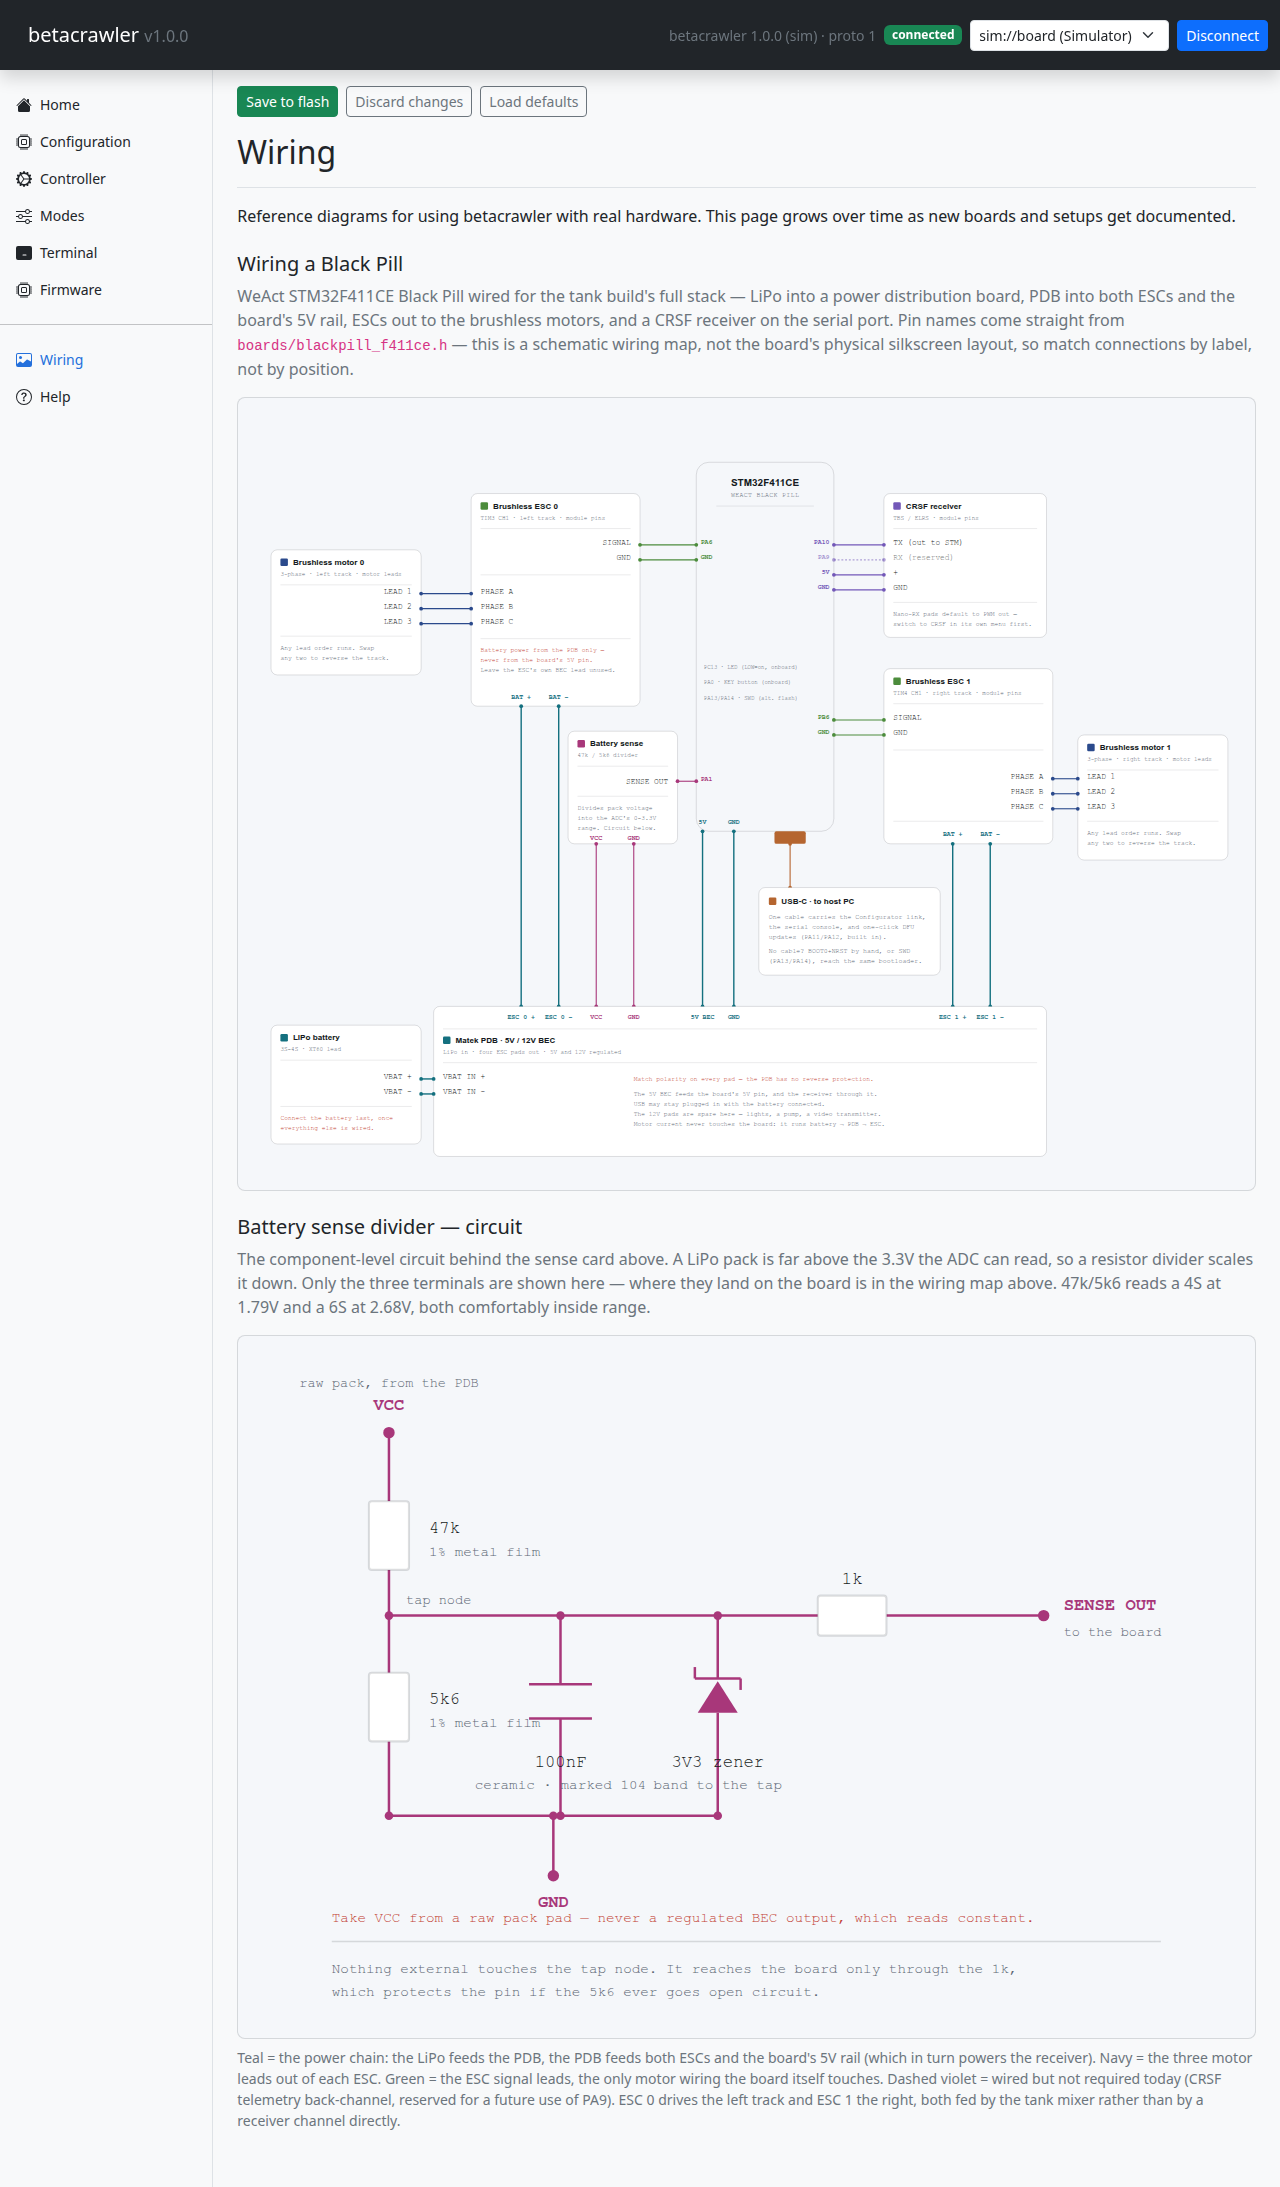
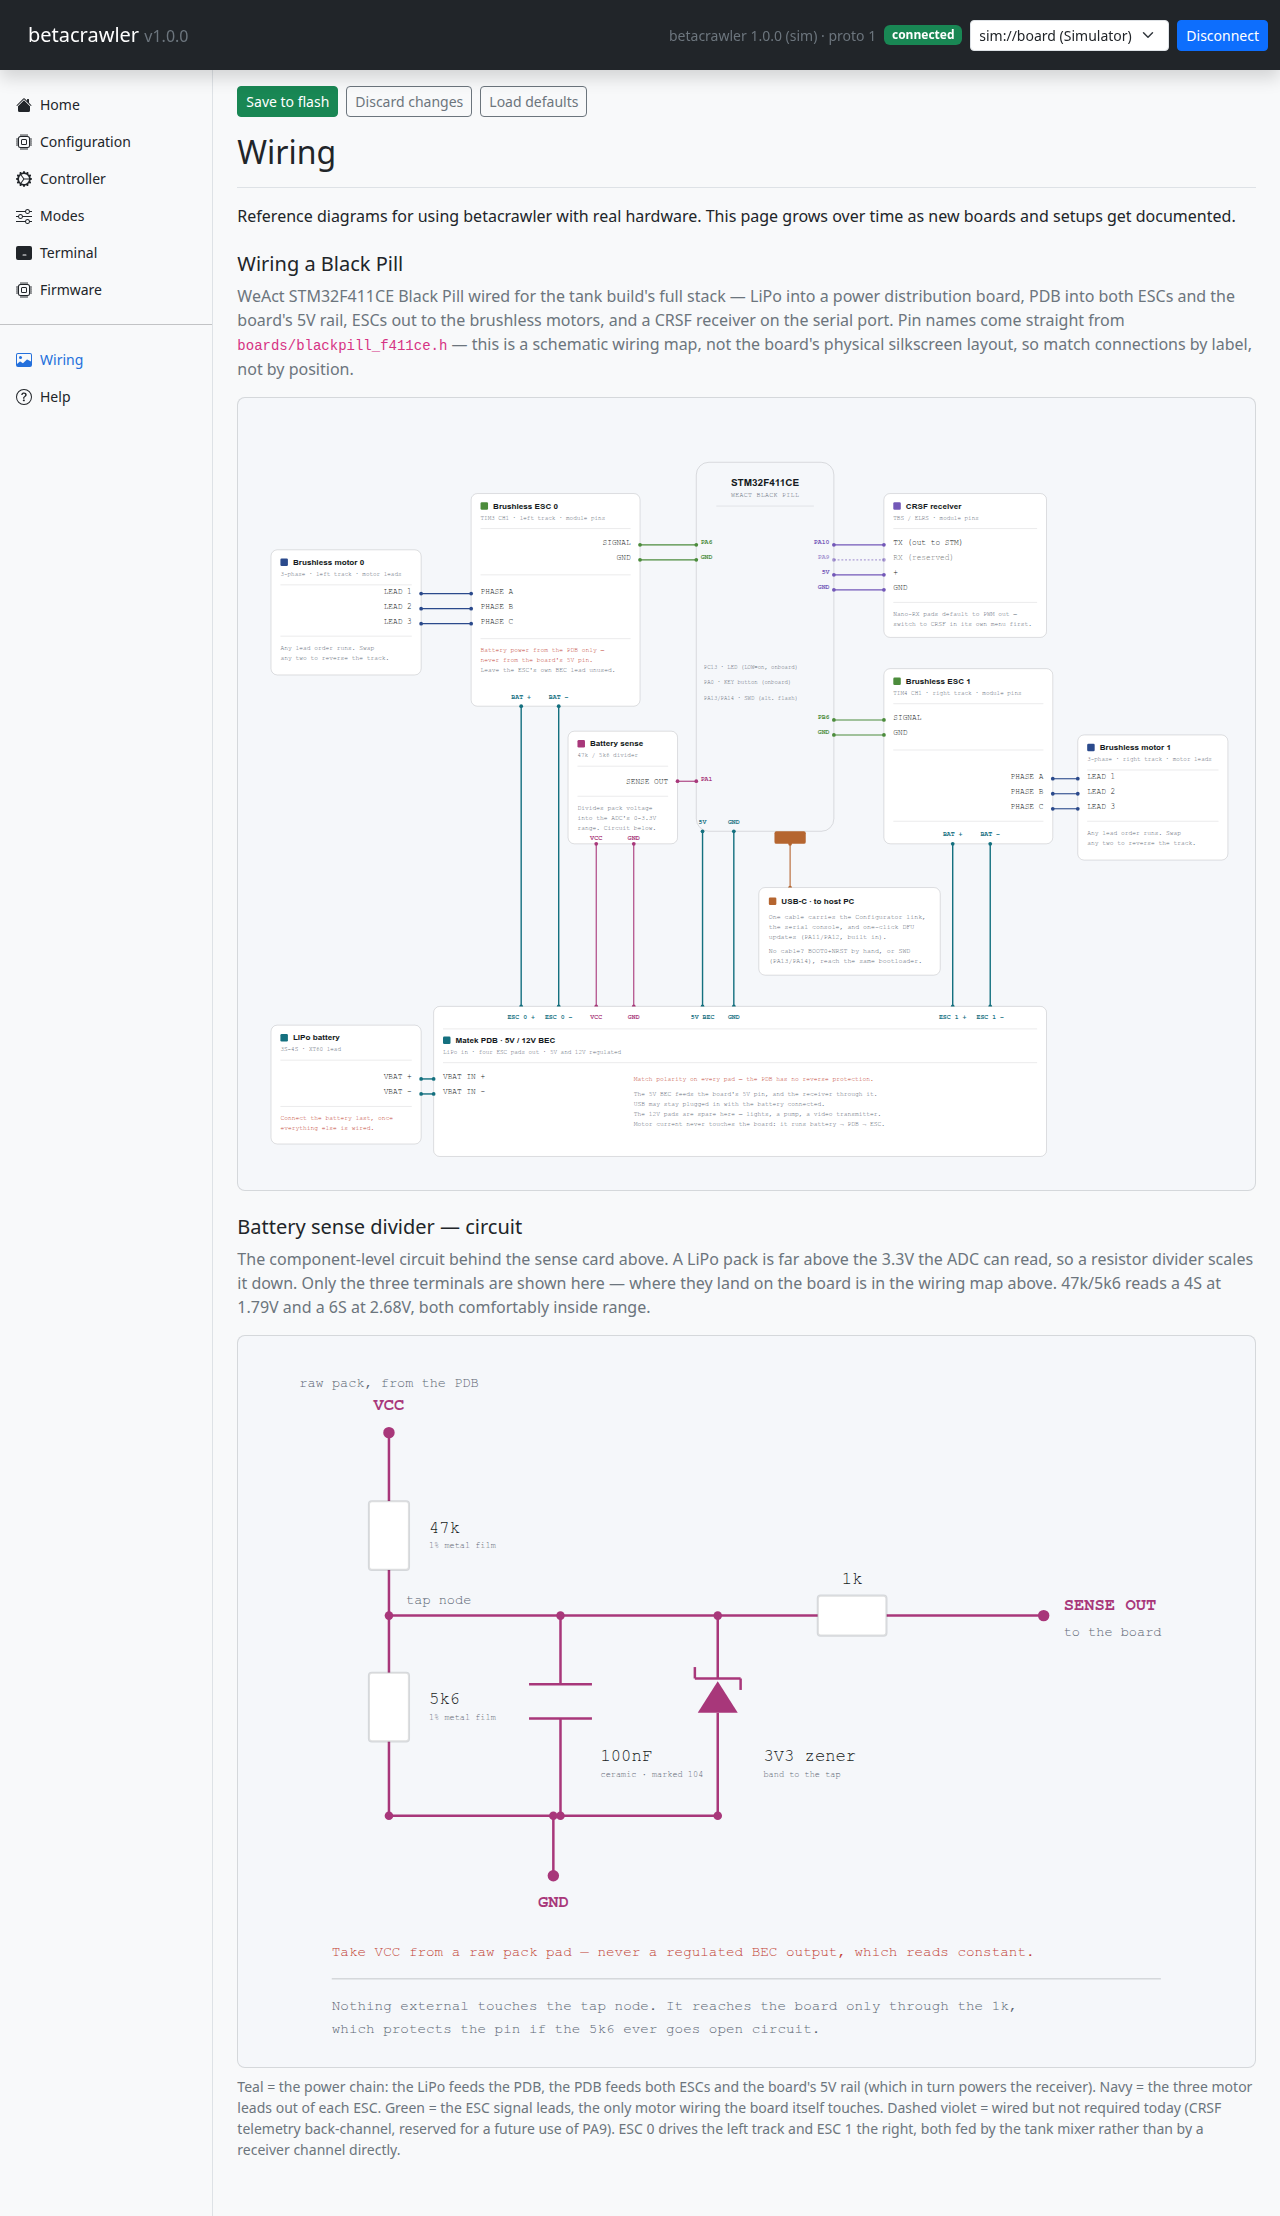
docs: tie the circuit annotations to their parts
The per-component notes drop to half the value type size and tuck close
underneath, so each reads as belonging to its part rather than as loose
text beside it.

Moving them also fixed the same fault the sense card had: the 100nF and
zener labels were centre-anchored on their own branch wires, so the wire
ran straight through the text. Both now sit clear to the right of the
branch they describe.

The safety line and the GND terminal were colliding; the footer moves
down and the viewBox grows to hold it.

diff --git a/app/web/pages/wiring.html b/app/web/pages/wiring.html
@@ -364,7 +364,7 @@
 
           <div class="wiring-diagram">
             <div class="diagram-card">
-              <svg viewBox="0 0 700 480" xmlns="http://www.w3.org/2000/svg" role="img"
+              <svg viewBox="0 0 700 500" xmlns="http://www.w3.org/2000/svg" role="img"
                    aria-label="Circuit diagram of the battery sense divider: a 47k resistor from pack positive to a tap node, a 5k6 resistor from the tap to ground, a 100nF capacitor and a 3.3V zener with its cathode to the tap also going to ground, and a 1k resistor in series from the tap to the sense output">
 
                 <g class="wire-vbat">
@@ -427,23 +427,25 @@
                 <g class="lbl-mono fill-ink" font-size="12" font-weight="500">
                   <text x="128" y="132">47k</text>
                   <text x="128" y="252">5k6</text>
-                  <text x="220" y="296" text-anchor="middle">100nF</text>
-                  <text x="330" y="296" text-anchor="middle">3V3 zener</text>
+                  <text x="248" y="292">100nF</text>
+                  <text x="362" y="292">3V3 zener</text>
                   <text x="424" y="168" text-anchor="middle">1k</text>
                 </g>
-                <g class="lbl-mono fill-muted" font-size="10">
-                  <text x="128" y="148">1% metal film</text>
-                  <text x="128" y="268">1% metal film</text>
-                  <text x="220" y="311" text-anchor="middle">ceramic &middot; marked 104</text>
-                  <text x="330" y="311" text-anchor="middle">band to the tap</text>
+                <!-- Half the value type size, and tucked close under it, so each
+                     note reads as belonging to its part rather than as loose text. -->
+                <g class="lbl-mono fill-muted" font-size="6">
+                  <text x="128" y="143">1% metal film</text>
+                  <text x="128" y="263">1% metal film</text>
+                  <text x="248" y="303">ceramic &middot; marked 104</text>
+                  <text x="362" y="303">band to the tap</text>
                 </g>
 
-                <line x1="60" y1="418" x2="640" y2="418" class="stroke-border" stroke-width="1" />
+                <text x="60" y="428" class="lbl-mono fill-power" font-size="10">Take VCC from a raw pack pad &mdash; never a regulated BEC output, which reads constant.</text>
+                <line x1="60" y1="444" x2="640" y2="444" class="stroke-border" stroke-width="1" />
                 <g class="lbl-mono fill-muted" font-size="10">
-                  <text x="60" y="440">Nothing external touches the tap node. It reaches the board only through the 1k,</text>
-                  <text x="60" y="456">which protects the pin if the 5k6 ever goes open circuit.</text>
+                  <text x="60" y="466">Nothing external touches the tap node. It reaches the board only through the 1k,</text>
+                  <text x="60" y="482">which protects the pin if the 5k6 ever goes open circuit.</text>
                 </g>
-                <text x="60" y="404" class="lbl-mono fill-power" font-size="10">Take VCC from a raw pack pad &mdash; never a regulated BEC output, which reads constant.</text>
               </svg>
             </div>
           </div>
